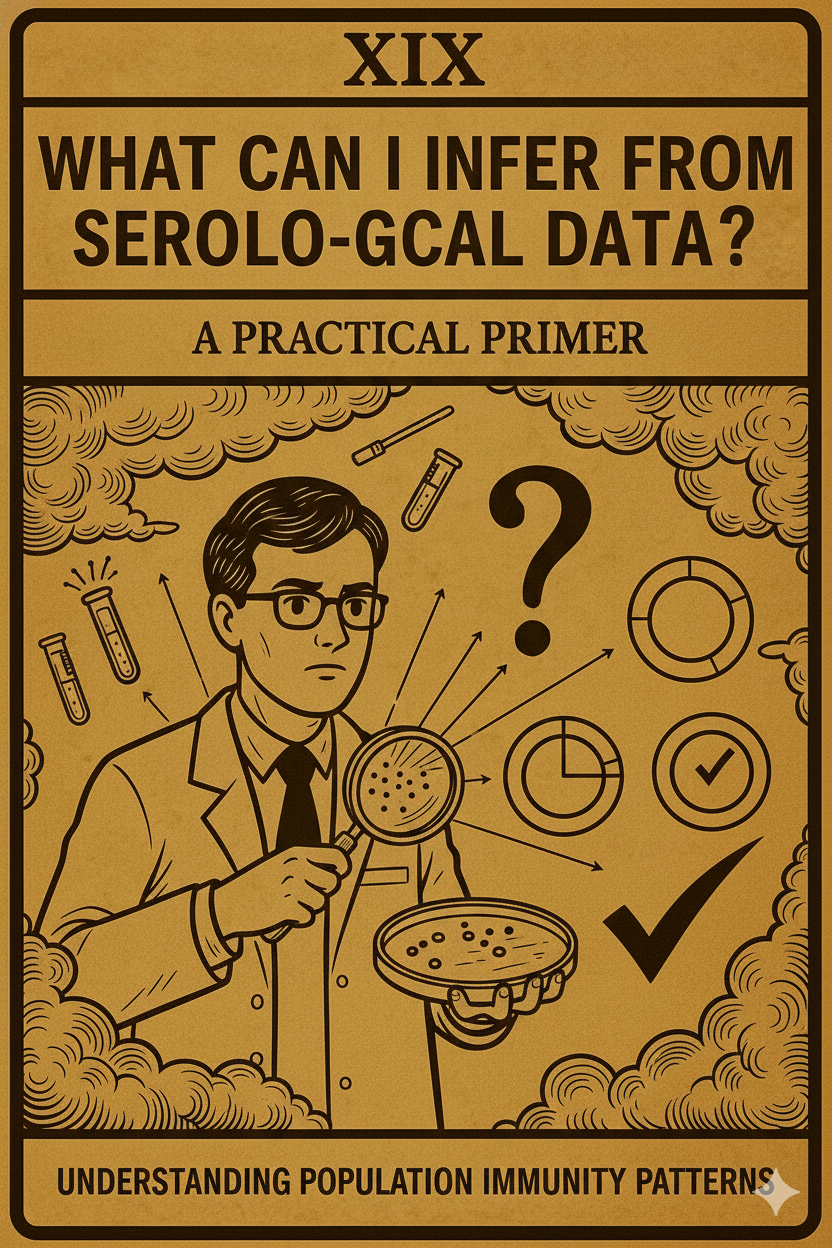
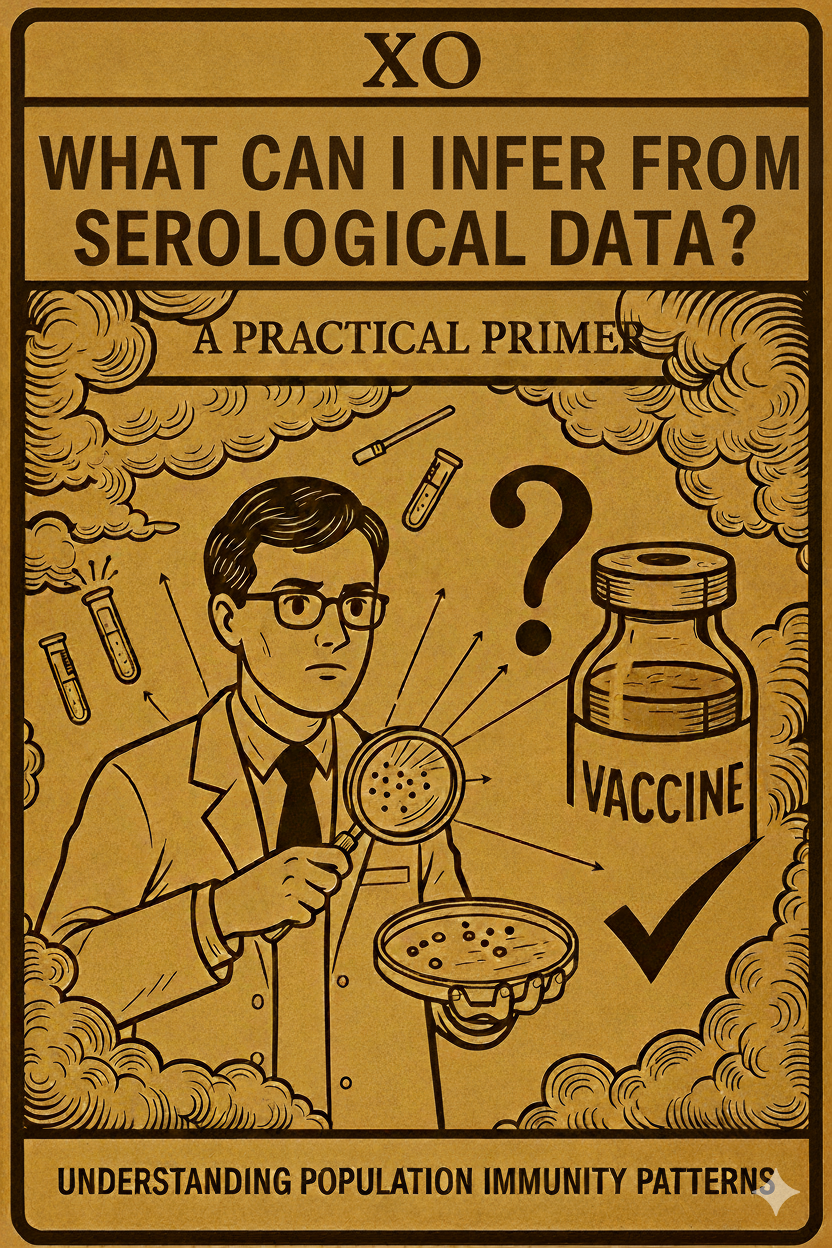
Few changes

diff --git a/content/post/sm5_cross/index.md b/content/post/sm5_cross/index.md
@@ -1,5 +1,5 @@
 ---
-title: "WHAT CAN I INFER FROM SEROLOGICAL DATA?"
+title: "WHAT CAN I INFER FROM CROSS-SECTIONAL SEROLOGICAL DATA?"
 subtitle: "A Practical Primer"
 summary: ""
 authors:
@@ -139,3 +139,4 @@ The examples above, from COVID-19's iceberg effect in Ischgl to Spain's nationwi
 Yet serological data is only as good as our ability to interpret it correctly. Understanding the nuances of antibody testing, accounting for waning immunity over time, and properly modelling age-stratified patterns are all essential for extracting reliable insights. As we continue to refine these methods and expand their application, cross-sectional serology will remain an indispensable tool for bridging the gap between what we observe and what is truly happening in our populations.
 
 The next time you see a case count, remember: the true story is likely much larger, and serology helps us read between the lines.
+
